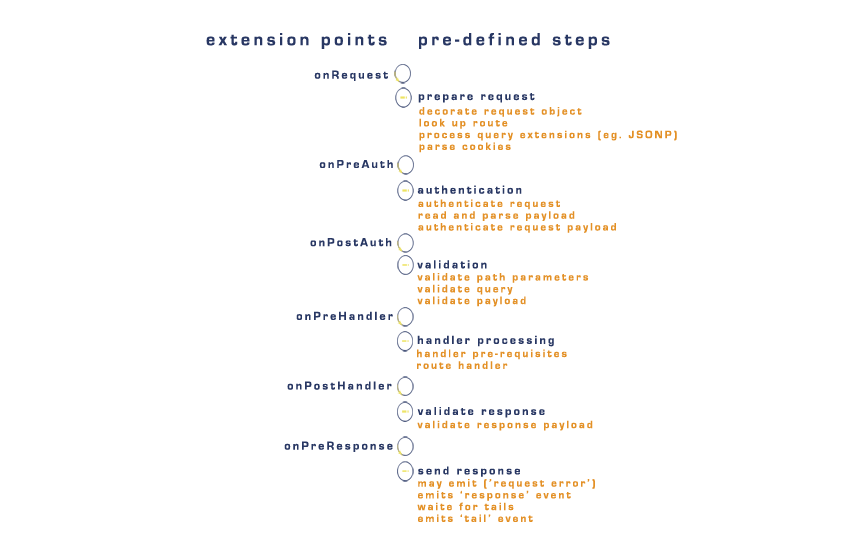
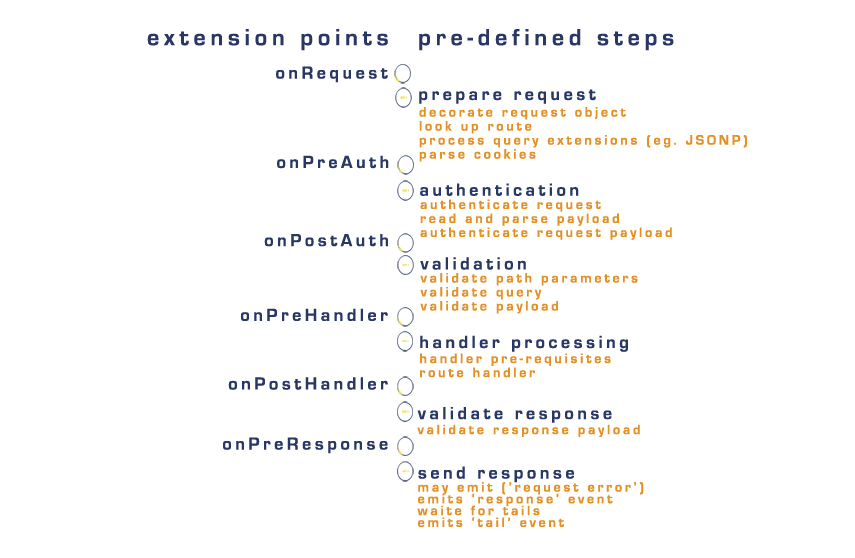
cleanup - image resizing and text edits

diff --git a/guides/lifecycleBigPicture.md b/guides/lifecycleBigPicture.md
@@ -106,7 +106,6 @@ hapi extending!
     caused me to write this introduction to the request lifecycle. assignment9 assumes a basic understanding of the the request lifecycle.
   - Matt Harrison @mtharrison<br/>
     * Explanation on [plugin-level and route-level extensions](https://stackoverflow.com/questions/37424079/how-to-apply-a-hapi-js-plugin-to-specific-routes) was helpful.
-    * His book [hapijs in action](https://www.manning.com/books/hapi-js-in-action) I believe is the source for the graphic used in @AdrVanHoudt 's proposal which
-      inpired the creation of [assignment9](../assignments/a0.0.9.md).  Have not read the book but looked over the section on tests in a Barns and Noble once. 
-      This graphic partially inspired me to make the graphics in this document. (@todo confirm & clarify this issue) 
-      
+    * His book [hapijs in action](https://www.manning.com/books/hapi-js-in-action) I believe is the source for the graphic used in @AdrVanHoudt 's proposal. As mentioned above, 
+      this proposal inspired the creation of [assignment9](../assignments/a0.0.9.md). And, this graphic partially inspired the graphics of this document. 
+      Have not read this book but looked over the introduction and the section on tests in a Barns and Noble once.  
